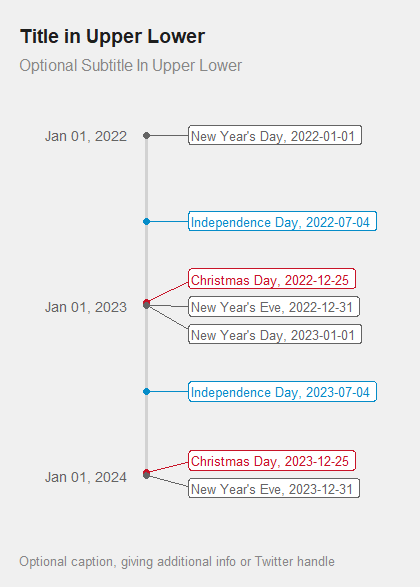
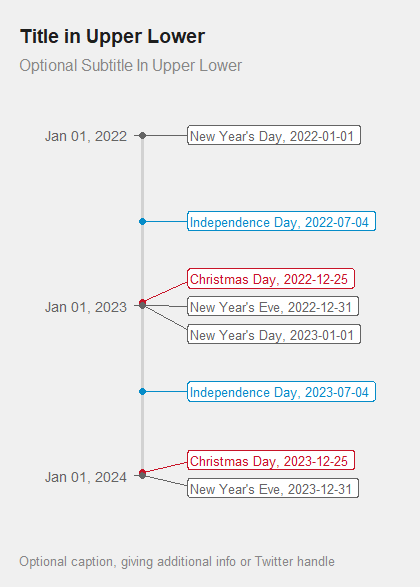
minor edits

diff --git a/README.md b/README.md
@@ -36,7 +36,6 @@ Load the package using
 
 ``` r
 library(pubtheme)
-library(GGally) ## Needed for the Pairs Plot example
 ```
 
 as usual. The theme will change some of your ggplot defaults the first
@@ -74,8 +73,6 @@ print(g)
 gg = g +
   scale_size(range=c(6,18)) +
   theme_pub(type='scatter', base_size=36)
-#> Scale for size is already present.
-#> Adding another scale for size, which will replace the existing scale.
   
 
 ggsave(filename=paste0("img/", gsub("%", " Perc", title), ".jpg"), 
@@ -113,6 +110,7 @@ the scale, otherwise the points will be too small.
 ## Pairs plot
 
 ``` r
+library(GGally) ## Needed for ggpairs function
 dg = mtcars %>%
   select(mpg, cyl, wt, carb) %>%
   mutate(cyl=factor(cyl))
@@ -321,8 +319,6 @@ g = ggplot(dg, aes(x=name, y=name2, fill=value))+
   scale_x_continuous(expand = c(0, 0), position='top', breaks=seq(2,30,by=2))+
   scale_y_discrete(  expand = c(0, 0)) +
   theme_pub(type='grid', base_size=36/3) 
-#> Warning: Using `size` aesthetic for lines was deprecated in ggplot2 3.4.0.
-#> ℹ Please use `linewidth` instead.
 
 print(g)
 
@@ -609,9 +605,12 @@ dg
 #> 7 2023-12-25    Christmas Day, 2023-12-25 Christmas
 #> 8 2023-12-31   New Year's Eve, 2023-12-31     Other
 
-library(ggrepel)
+## Now make the timeline using ggrepel for the text
+library(ggrepel) ## for  geom_text_repel() or geom_label_repel()
 
+## Function for reverse date axes 
 ## Copied from https://github.com/tidyverse/ggplot2/issues/4014
+## Use this with scale_y_continuous below (and use _continuous instead of _date)
 reverse2_trans <- function() {
   trans_new(
     "reverse2",
@@ -620,7 +619,7 @@ reverse2_trans <- function() {
   )
 }
 
-## Edit breaks
+## Define breaks, title, and plot
 breaks = as.Date(c('2022-01-01', '2023-01-01', '2024-01-01'))
 title = "Title in Upper Lower" ## to be used by ggplot and ggsave
 g = ggplot(dg, aes(x=0, y=date, color=name))+
@@ -638,11 +637,12 @@ g = ggplot(dg, aes(x=0, y=date, color=name))+
        caption  = "Optional caption, giving additional info or Twitter handle",
        x = '',
        y = '')+
-  scale_x_continuous(limits=c(0, 5))+
-  scale_y_continuous(trans=c('reverse2'), 
+  scale_x_continuous(limits=c(0, 5), expand=c(0,0))+
+  scale_y_continuous(trans=c('reverse2'),
                      breaks=as.numeric(breaks), 
                      labels=format(breaks, '%b %d, %Y'), 
                      expand=c(.1, .1))+ ## expand in case more room is needed
+  coord_cartesian(clip='off')+
   theme_pub(type='timeline', base_size=12)
   
 g
